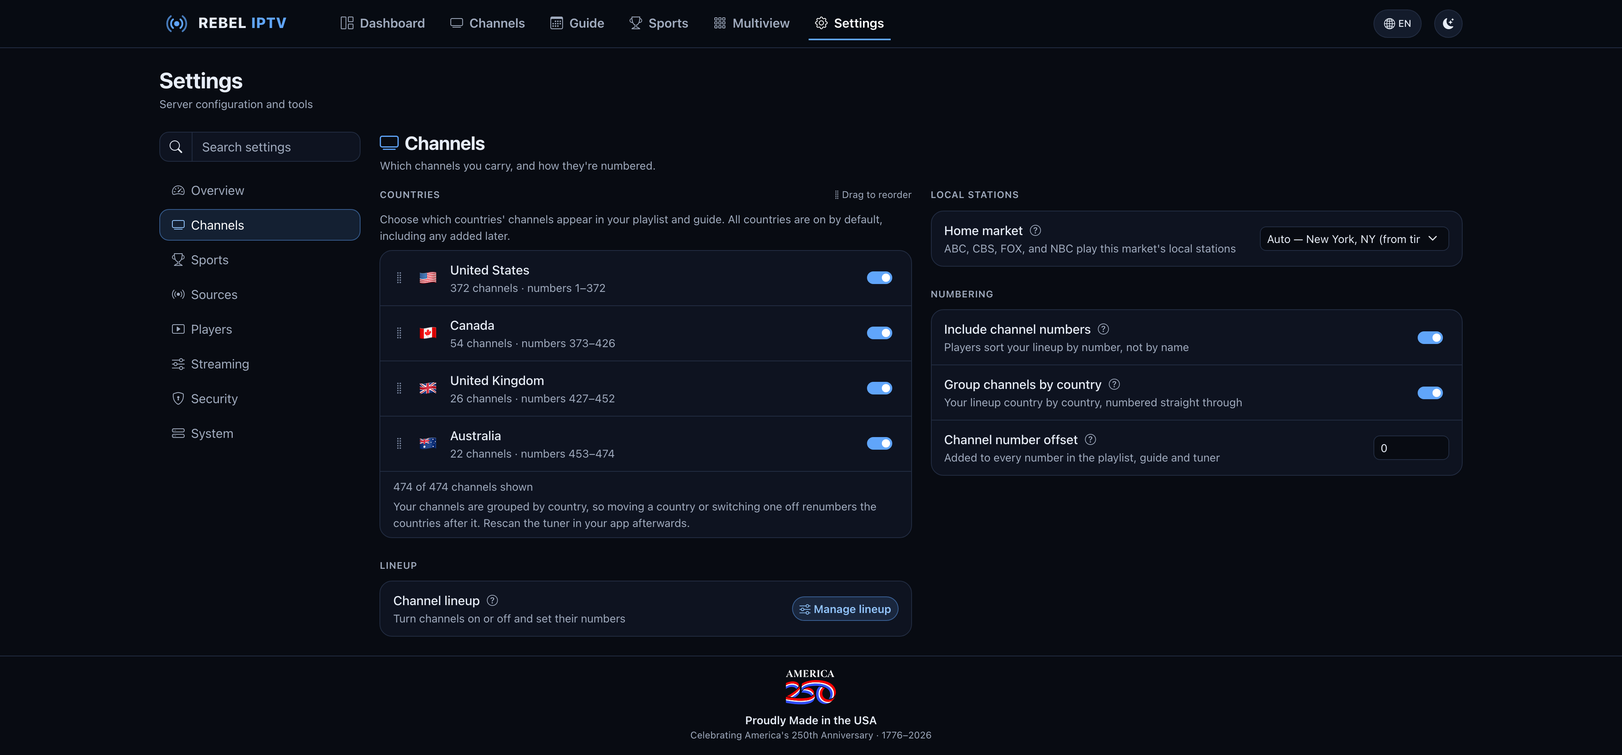
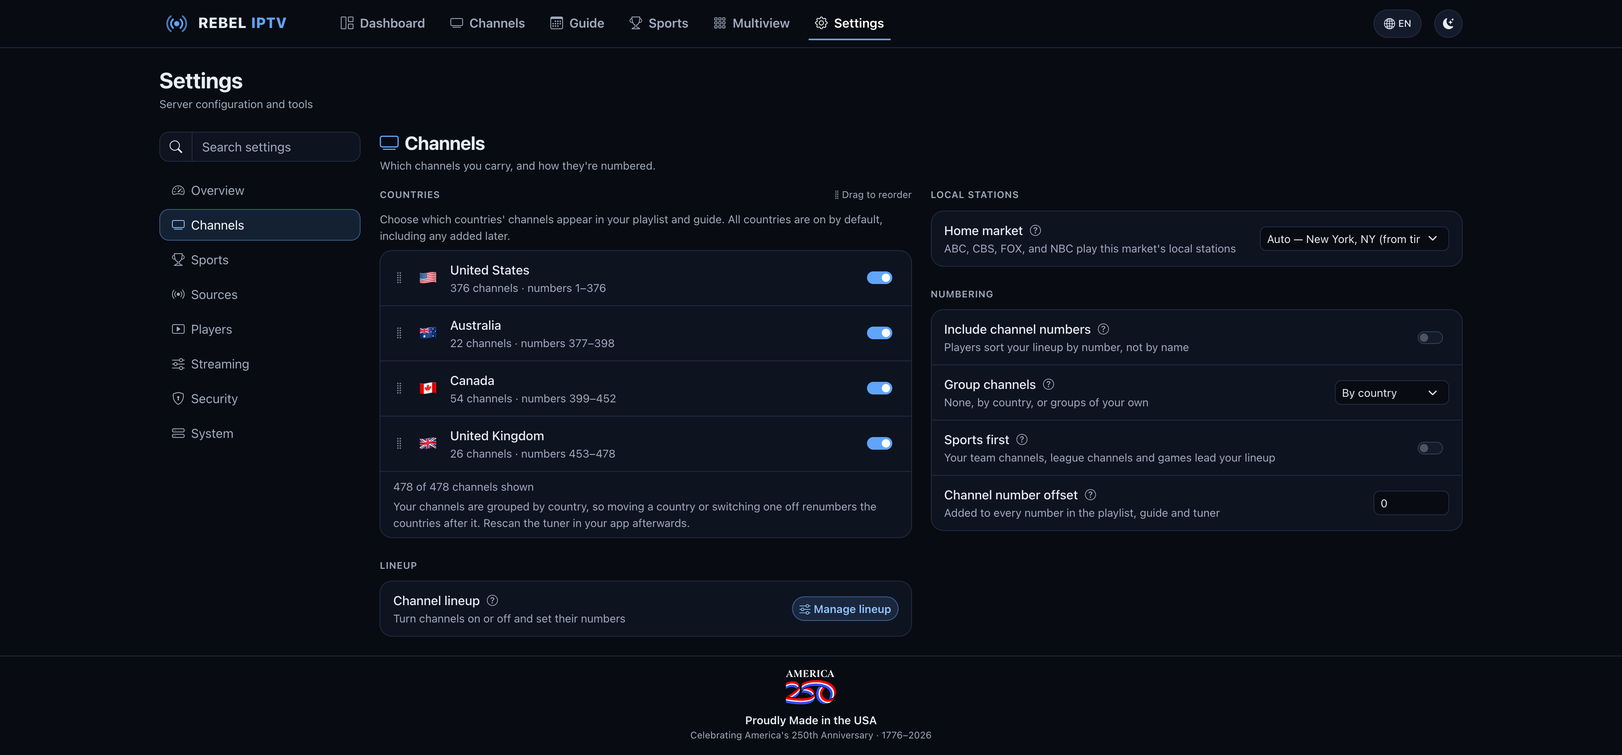
Describe 1.5.1 in the README and screenshots
The lineup builder and groups of your own, Sports first, connecting Jellyfin, Emby or Plex from the dashboard and the setup wizard's media-server step, with the Settings screenshot retaken on 1.5.1. Plex's Live TV needs Plex Pass and takes only an HDHomeRun tuner, so the README no longer says otherwise or offers an M3U route for it.

diff --git a/README.md b/README.md
@@ -14,8 +14,8 @@
 Aggregates live TV channels and sports events into a single M3U playlist with full EPG guide data.<br>
 Streams are fully proxied so upstream sources are never exposed to clients.<br>
 Designed for **Jellyfin**, **Emby**, **Plex**, and other apps that take an M3U playlist and an XMLTV guide.<br>
-It can also answer as an **HDHomeRun tuner** — Jellyfin, Plex and Emby can all add it that way, and for
-Plex and Emby it is the path their Live TV is built around.<br>
+It can also answer as an **HDHomeRun tuner**, the only kind Plex's Live TV takes, and Jellyfin and Emby can add it that way too.<br>
+Connect your Jellyfin, Emby or Plex from the dashboard and it sets itself up there for you.<br>
 The web dashboard is available in **19 languages**.
 
 **🌐 New here? Follow the step-by-step [setup guide at rebeliptv.com](https://www.rebeliptv.com).**
@@ -84,9 +84,11 @@ The web dashboard is available in **19 languages**.
 - **Sports only** -- turn on **Sports only** under **Settings → Sports** and your server carries just the games: the dashboard counts games where it counted channels, and a refresh fetches the games alone, in seconds
 - **The dashboard speaks your language** -- 19 of them: Arabic, Simplified and Traditional Chinese, Dutch, English, Finnish, French, German, Hindi, Indonesian, Italian, Japanese, Korean, Malay, Norwegian, Portuguese, Spanish, Swedish, and Urdu. Your browser's language is picked up the first time you open the dashboard, and the globe in the top bar changes it any time. The choice is stored on the server rather than in the browser, so it follows you to your phone and your TV box -- and dates, times, durations and temperatures follow it too, with Arabic and Urdu laying the whole dashboard out right-to-left
 - **Custom M3U sources** -- add your own M3U URLs or upload files to merge into the playlist, each with its own guide if it needs one (a guide URL or an uploaded XMLTV file); edit the URL or replace the uploaded file later without losing channel numbers
-- **Your lineup, your numbers** -- your apps get your channels numbered 1, 2, 3 in your lineup's order, counting only the ones that are on, so a channel you turn off leaves no gap. **Settings → Channels → Manage lineup** runs country by country: drag a channel, or click its number and type a new one, and filter by the channels that are on, turned off, offline or renumbered. Your choices persist across restarts and upgrades
-- **Choose your countries** -- pick which countries' channels you carry from **Settings → Channels → Countries**, and drag them into the order you want; turn a country off and its channels leave the playlist, guide, dashboard, and search everywhere. Turn on **Group channels by country** under **Settings → Channels → Numbering** and your apps get your channels country by country, in that order, with your playlist grouping them under their country
+- **Build your own lineup** -- **Settings → Channels → Manage lineup** puts your lineup beside every channel on offer: drag channels across to add them where you drop them, drag one or type its number to move it, and drag it back to take it out, or tick several and move them together. **Arrange** sorts your lineup A to Z, by category or by country, and **Undo** takes back your last change. Your changes wait until you press **Save**, then reach your playlist, guide and media servers all at once. Your apps get your channels numbered 1, 2, 3 in your lineup's order, counting only the ones in it, so a channel you take out leaves no gap. Your choices persist across restarts and upgrades -- see [Channels](#channels)
+- **Groups of your own** -- set **Group channels** under **Settings → Channels → Numbering** to **My own groups** and make groups such as Locals, News or Sports in your lineup. Your playlist groups your channels under your group names, and a group you give a starting number keeps its numbers when a group above it changes
+- **Choose your countries** -- pick which countries' channels you carry from **Settings → Channels → Countries**, and drag them into the order you want; turn a country off and its channels leave the playlist, guide, dashboard, and search everywhere. Set **Group channels** under **Settings → Channels → Numbering** to **By country** and your apps get your channels country by country, in that order, with your playlist grouping them under their country
 - **Channel numbers that start where you want** -- a **Channel number offset** under **Settings → Channels → Numbering** adds the same amount to every channel number in your playlist, guide and HDHomeRun tuner, so these channels stay clear of another tuner's in Plex or Jellyfin. With an offset of 100, channel 1 becomes 101
+- **Sports at the top of your guide** -- turn on **Sports first** under **Settings → Channels → Numbering** and apps that sort by channel number, such as Plex, Jellyfin and Emby, list your team channels, league channels and games ahead of your other channels. The sports keep their numbers, and your other channels move up past them: channel 1 becomes 10001
 - **Channel categories** -- Sports, News, Local, Kids, Movies, Entertainment, Lifestyle, Documentary, and more
 - **Local station detection** -- identifies call signs (KABC, WCBS, etc.)
 - **Multi-source stream fallback** -- events and channels start on the highest-priority source a check has confirmed working, and automatically try alternate providers if it fails, both at refresh time and mid-watch
@@ -112,14 +114,19 @@ The web dashboard is available in **19 languages**.
 - **Cache survives restarts** -- the playlist, guide, and in-flight stream tokens are restored on boot, so clients keep playing through a container restart
 - **One-click in-app updates** -- upgrade to the latest version straight from the dashboard with an **Update now** button, no command line needed (see [Updating](#updating))
 - **Restart from the dashboard** -- a **Restart** button in **Settings → System** stops and starts the server without a terminal on the host, on any setup; it comes back on the same version with nothing deleted (see [Restarting the server](#restarting-the-server))
-- **Answers as an HDHomeRun tuner** -- Plex and Emby build their Live TV around HDHomeRun hardware, so
-  the server can present itself as one and be added directly, no Plex Pass and no M3U-tuner flow
+- **Connect Jellyfin, Emby or Plex** -- under **Settings → Players → Media servers**, give your server
+  a key from your Jellyfin, Emby or Plex and it sets itself up there: its tuner, its guide and the
+  options they need. A tuner you added by hand is taken over in place, so your favourites and
+  recordings stay, and the guide there refreshes as soon as a refresh here finishes, instead of up to
+  a day later -- see [Connecting your media server](#connecting-your-media-server)
+- **Answers as an HDHomeRun tuner** -- Plex's Live TV takes only HDHomeRun tuners, so the server can
+  present itself as one and be added directly; Jellyfin and Emby can add it that way too
   (**Settings → Players**; see [Plex & Emby](#plex--emby))
 - Continuous MPEG-TS stream proxy (works like a real TV tuner for Jellyfin/ffmpeg)
 - Sport events sorted by start time with team logos and pregame/postgame EPG entries
 - API key protection for playlist and EPG endpoints
 - **Optional dashboard login** -- protect the dashboard with a username/password and add more admin accounts under **Settings → Security**; leave it unset to keep the dashboard open on a trusted network
-- **Guided first-run setup** -- five short steps: where your channels come from, then your local stations, countries and live sports on one page (or the recommended settings), an optional dashboard sign-in and playlist key, and your app -- Jellyfin, Plex, Emby, Channels DVR or another -- with numbered steps and a Copy button beside every address
+- **Guided first-run setup** -- five short steps: where your channels come from, then your local stations, countries and live sports on one page (or the recommended settings), an optional dashboard sign-in and playlist key, and your media server: the Jellyfin, Emby and Plex it finds on this computer and your network are set up for you from their key, and any other app, such as Channels DVR, gets numbered steps and a Copy button beside every address
 - Automatic hourly refresh in your time zone, with offline channel recovery every 5 minutes
 - Graceful shutdown with SIGTERM handling
 - **A small image** -- it carries only the server, with no operating system inside to keep patched; a container console, such as the Console button in Unraid or Portainer, has no shell to open
@@ -138,6 +145,7 @@ The following leagues currently have working live event feeds:
 | **MLS**   | Soccer (US)                 |
 | **CFL**   | Canadian Football           |
 | **NCAAF** | College Football            |
+| **NCAAB** | College Basketball          |
 
 Schedules, team names and live scores arrive already collected, so your server never has to reach the schedule sites itself; your server's own job is finding the streams and matching each one to its game. If the listings can't be refreshed, the Sports page says they may be out of date rather than looking like a quiet day.
 
@@ -250,6 +258,35 @@ Without a key, playlist and EPG are accessible to anyone on your network.
 
 ## Usage with IPTV Clients
 
+### Connecting your media server
+
+The quickest way to set up Jellyfin, Emby or Plex is to let your server do it. Under
+**Settings → Players → Media servers**, choose **Connect Jellyfin, Emby or Plex**, then give it your
+media server's address and a key made there:
+
+- **Jellyfin**: an API key, from **Dashboard → API Keys**
+- **Emby**: an API key, from **Settings → Advanced → API Keys**
+- **Plex**: your X-Plex-Token (Plex's help article "Finding an authentication token" shows where)
+
+Your server then adds its tuner and guide there and sets the options they need. A tuner and guide you
+already added by hand are taken over in place, so your favourites and recordings stay, and your other
+tuners, guides and libraries are left alone. Name the link as you want its tuner and guide to show
+there; it's **Rebel IPTV** unless you change it. From then on your server keeps them that way, and the
+guide there refreshes as soon as a refresh here finishes and each time you save your lineup, instead
+of up to a day later.
+
+- **Jellyfin** gets an M3U tuner on your playlist, with **Auto-loop live streams** off and the other
+  tuner settings below set as recommended.
+- **Emby** gets an M3U tuner on your playlist too. Emby's Live TV needs **Emby Premiere**: without
+  it, your server is still set up there, ready for when it's unlocked.
+- **Plex** gets this server's HDHomeRun tuner (your server turns on **Act as an HDHomeRun tuner** for
+  it) and a DVR reading its guide, and your channels are paired with the guide once Plex has read it,
+  in about two minutes. Plex's Live TV needs **Plex Pass**.
+
+The setup wizard's **Media server** step does the same, listing the Jellyfin, Emby and Plex it can
+reach on this computer and your network. The steps below set a media server up by hand, and work for
+any other app.
+
 ### Jellyfin
 
 1. Go to **Dashboard > Live TV > Tuner Devices > Add**
@@ -274,10 +311,11 @@ whichever of the tuner settings above Jellyfin offers for that tuner type.
 
 ### Plex & Emby
 
-Plex and Emby both build their Live TV around **HDHomeRun** network tuners, so this server can
-answer as one. That is the supported path for both — no Plex Pass, and no M3U-tuner flow that moves
-between releases. (Jellyfin can use the same tuner; see [Jellyfin](#jellyfin) for why the M3U route
-is suggested there instead.) The rest of this section applies to any HDHomeRun client.
+Plex's Live TV takes only **HDHomeRun** network tuners, so this server can answer as one, and Emby
+can add it the same way. Live TV needs **Plex Pass** in Plex and **Emby Premiere** in Emby. (Jellyfin
+can use the same tuner; see [Jellyfin](#jellyfin) for why the M3U route is suggested there instead.)
+The rest of this section applies to any HDHomeRun client; to have your server set Plex or Emby up
+for you instead, see [Connecting your media server](#connecting-your-media-server).
 
 Turn on **Act as an HDHomeRun tuner** in **Settings → Players** (it is on by default), then add the
 server by address.
@@ -308,20 +346,6 @@ as an XMLTV guide source.
 Both clients ask the tuner how many streams it can serve. That number is **Settings → Streaming →
 Simultaneous streams**, and it is a real limit on every way of connecting — see
 [Simultaneous Streams](#simultaneous-streams).
-
-<details>
-<summary>Plex via M3U instead (not recommended)</summary>
-
-Plex does have an M3U path, but it **requires an active Plex Pass**, is not officially supported, and
-the steps have changed between Plex releases. Prefer the tuner above. If you still want it, follow
-Plex's own current M3U / XMLTV instructions — they are the authority on their own flow — and give it:
-
-| Plex asks for | Give it |
-|---|---|
-| Tuner / M3U | `http://<server-ip>:8080/playlist?key=YOUR_KEY` |
-| XMLTV guide  | `http://<server-ip>:8080/epg?key=YOUR_KEY` |
-
-</details>
 
 ### General IPTV Clients
 
@@ -366,7 +390,7 @@ and you meet the card sooner than you need to.
 
 Access the dashboard at `http://<server-ip>:8080`.
 
-On first launch a setup wizard gets you watching in five short steps: choose where your channels come from; pick your local stations, countries and live sports on one page, or take the recommended settings and skip the choices; add a dashboard sign-in and a playlist key, now or later; then pick your app (Jellyfin, Plex, Emby, Channels DVR or another) and follow its numbered steps, with a **Copy** button beside every address you paste in. If you added a key, the addresses already include it. You can change anything later in Settings.
+On first launch a setup wizard gets you watching in five short steps: choose where your channels come from; pick your local stations, countries and live sports on one page, or take the recommended settings and skip the choices; add a dashboard sign-in and a playlist key, now or later; then connect your media server. The wizard lists the Jellyfin, Emby and Plex it finds on this computer and your network, and sets the one you pick up for you from its key; one it doesn't find, you connect by its address (see [Connecting your media server](#connecting-your-media-server)). Any other app, such as Channels DVR, gets numbered steps, with a **Copy** button beside every address you paste in. If you added a key, the addresses already include it. You can change anything later in Settings.
 
 ### Pages
 
@@ -375,7 +399,7 @@ On first launch a setup wizard gets you watching in five short steps: choose whe
 - **Guide** -- a timeline grid with a sticky channel column and a current-time line, opening on what's on now and next, with buttons for today, tomorrow and the days after and chips to show one category; when your lineup has more than one country, buttons show one country's channels. Click a show that's coming up to see its description, its times and what follows it on that channel; click a show that's on now, or a channel's name, to open the channel. Each show's episode title is shown, and on a phone a show's details slide up from the bottom
 - **Sports** -- the games that are on first, then today's, tomorrow's and the days after, with fight cards and races among them in start order. Each card shows both teams with their records, the score and the clock while a game is on, and a **Watch** button once it can be played. Filter by status or league, or pick **My teams** for your favourite teams' games. Click a game for its page with the scoreboard and video player. If the listings can't be refreshed, a banner says they may be out of date — and whether the schedule service is behind (it recovers on its own) or your server can't reach it — rather than leaving the page looking like a quiet day
 - **Multiview** -- up to four pictures on one screen. Choosing what goes on a screen opens a browser of your channels and the games that are on: search by name, number, show or team, filter by category and country, and see what each channel is airing and how long is left; feeds already on another screen are marked, and a screen's channel can be changed without clearing it first. Click a picture to move the sound to it (mute it from its speaker button); the one you're listening to is outlined. Double-click a picture to make it large, with the others beside it (under it on a phone); click a small one to swap it in, and double-click the large one, or press Esc, to go back to the grid. Each X clears its own box, and the header tells you how many of your simultaneous streams are in use. The **Recent** tab keeps what you've put on a screen in the past week, and **Add to Multiview** on a channel's page opens the channel here. On a phone the boxes stack
-- **Settings** -- eight sections, each answering one question: **Overview** (how your server is doing, anything that needs you, a manual refresh of channels, the guide, events or all of them with each step as it runs, and your instance ID), **Channels** (your countries and their order, the lineup page, numbering — channel numbers in the playlist, grouping by country and the channel number offset — and your home market), **Sports** (carrying sports, sports-only mode, league channels and the order of your leagues, score timing and favourite-team channels), **Sources** (the feed source, local scraping or Rebel IPTV's hosted feeds, and your custom M3U sources, each with its guide URL or guide file), **Players** (your playlist and guide addresses, the Docker container-hostname toggle, setup steps for your app, and the HDHomeRun tuner), **Streaming** (extra buffering, the stream stats panel and how many streams play at once), **Security** (the API key, and the dashboard login with its admin accounts) and **System** (the version and one-click in-app upgrade, the dashboard language, restarting the server, purging and rescraping, and resetting stream statistics). A search box finds any setting, every change says when it's saved, and bigger changes ask first
+- **Settings** -- eight sections, each answering one question: **Overview** (how your server is doing, anything that needs you, a manual refresh of channels, the guide, events or all of them with each step as it runs, and your instance ID), **Channels** (your countries and their order, your lineup, numbering — channel numbers in the playlist, how your channels are grouped, sports first and the channel number offset — and your home market), **Sports** (carrying sports, sports-only mode, league channels and the order of your leagues, score timing and favourite-team channels), **Sources** (the feed source, local scraping or Rebel IPTV's hosted feeds, and your custom M3U sources, each with its guide URL or guide file), **Players** (your playlist and guide addresses, the Docker container-hostname toggle, your media servers, setup steps for your app, and the HDHomeRun tuner), **Streaming** (extra buffering, the stream stats panel and how many streams play at once), **Security** (the API key, and the dashboard login with its admin accounts) and **System** (the version and one-click in-app upgrade, the dashboard language, restarting the server, purging and rescraping, and resetting stream statistics). A search box finds any setting, every change says when it's saved, and bigger changes ask first
 - **Favourite Teams** (**Settings → Sports → Favourite teams**) -- your picks as a set of cards, each showing what its channel is doing right now; add a team by sport or by typing its name, and drag them into the order you want their channel numbers in
 
 On a phone, the dashboard's pages sit in a tab bar along the bottom of the screen, with **More** for the rest.
@@ -480,7 +504,7 @@ re-enabling once it finishes.
 
 On startup and once an hour, the server scrapes channel data, normalizes names, detects categories, and checks stream health. Offline channels are rechecked every 5 minutes.
 
-Your channels are numbered **1, 2, 3** in your lineup's order, counting only the ones that are on: a channel you turn off has no number and the channels after it move up, while one that's only offline keeps its number. Your home market's networks always come first, from 1. Numbers are allocated in ranges:
+Your channels are numbered **1, 2, 3** in your lineup's order, counting only the ones in it: a channel you take out has no number and the channels after it move up, while one that's only offline keeps its number. Your home market's networks always come first, from 1. Numbers are allocated in ranges:
 
 | Range     | Use                                           |
 |-----------|-----------------------------------------------|
@@ -491,13 +515,17 @@ Your channels are numbered **1, 2, 3** in your lineup's order, counting only the
 
 To move every number up, set a **Channel number offset** under **Settings → Channels → Numbering**: it adds the same amount to each number in your playlist, guide and HDHomeRun tuner, so an offset of 100 puts channel 1 at 101 and keeps these channels clear of another tuner's in Plex or Jellyfin. Changing it renumbers every channel, so rescan the tuner in your player afterwards.
 
-**Settings → Channels → Manage lineup** runs country by country, in your country order, each country headed by the numbers its channels run through. Turn off the channels you don't watch (they drop out of your playlist, guide, and counts), drag a channel within its country, or click its number and type a new one; moving a channel renumbers only the channels it passes. Your home market's networks are pinned at the top, and each goes on and off with the local station it plays. These choices are saved with your data, so they persist across restarts, upgrades and a purge. Rescan the tuner in your app after changing them, so it picks up the new numbers.
+Turn on **Sports first** under **Settings → Channels → Numbering** and apps that sort by channel number, such as Plex, Jellyfin and Emby, list your team channels, league channels and games ahead of your other channels, at the top of the guide instead of the bottom. The sports keep the numbers in the table above, and everything else moves up past them by 10000: your channels start from 10001 and your custom sources from 20000. Rescan the tuner in your app after you change it.
 
-Turn on **Group channels by country** under **Settings → Channels → Numbering** and your apps get your channels country by country, in the order of your countries under **Countries**: your home market's networks first, from 1, then each country's channels, numbered straight through.
+**Settings → Channels → Manage lineup** shows **My lineup** beside **All channels**, every channel on offer (on a phone, as two tabs). Drag channels across to add them where you drop them, or **Add all** that the filters show; within your lineup, drag a channel or type its number to move it, and drag it back or press **×** to take it out (it drops out of your playlist, guide and counts). Tick several to move or take them out together. **Arrange** sorts your lineup A to Z, by category or by country, and **Undo** takes back your last change. Your changes wait until you press **Save**, then reach your playlist, guide and media servers all at once; **Discard** puts back what you last saved, and leaving with changes unsaved asks first. Under **Actions**, **Reset order** puts your channels back in the default order, and **Reset to default** puts every channel back in, in the default order for your settings. Your home market's networks are pinned at the top, and each goes on and off with the local station it plays. These choices are saved with your data, so they persist across restarts, upgrades and a purge. Rescan the tuner in your app after changing them, so it picks up the new numbers.
+
+Once you've changed your lineup, a channel newly on offer waits in **All channels**, marked **New**, until you add it, and your dashboard tells you when some arrive. A lineup you haven't changed still gets new channels straight away.
+
+**Group channels** under **Settings → Channels → Numbering** is **None**, **By country** or **My own groups**. **By country** gives your apps your channels country by country, in the order of your countries under **Countries**: your home market's networks first, from 1, then each country's channels, numbered straight through. Once you arrange your lineup yourself, your order is kept and your playlist still groups channels by country; **Reset order** goes back to grouping. With **My own groups**, you make groups such as Locals, News or Sports in **Manage lineup**: add, rename, collapse and move them, drag channels between them, or tick some and pick **Move to group**. Give a group a starting number and its channels keep their numbers when a group above it changes. Switching to it starts from your lineup as it is, so nothing moves, and **Actions → A group per country** makes a group for each of your countries.
 
 Local broadcast stations are identified by their FCC call sign. For example, "ABC (KABC) Los Angeles" becomes **KABC Los Angeles CA (ABC)** — call sign, market, and network — and gets a logo showing the network mark with the call sign and city. Because the city and network are in the name, you can find a local station by searching for its city (e.g. **Los Angeles**) or network (e.g. **ABC**) in your player.
 
-Channels are grouped by category in the M3U playlist using `group-title`. Multiple categories are supported (e.g., a local station gets both "Local" and "News"). With **Group channels by country** on, they're grouped by their country instead.
+Channels are grouped by category in the M3U playlist using `group-title`. Multiple categories are supported (e.g., a local station gets both "Local" and "News"). With **Group channels** set to **By country**, they're grouped by their country instead, and with **My own groups**, under your group names.
 
 ### Custom M3U Sources
 
@@ -522,7 +550,7 @@ Each event gets EPG entries with pregame, game, and postgame blocks:
 | MLB          | 30 min  | 3.5 hrs                       | 30 min   |
 | NHL          | 30 min  | 3 hrs                         | 30 min   |
 | MLS, CFL     | 30 min  | 3 hrs                         | 30 min   |
-| NBA          | 30 min  | 2.5 hrs                       | 30 min   |
+| NBA, college basketball | 30 min | 2.5 hrs              | 30 min   |
 | Fight card   | 30 min  | 6 hrs (from the first bout)   | 30 min   |
 | Race         | 30 min  | 2.5–4 hrs                     | 30 min   |
 
